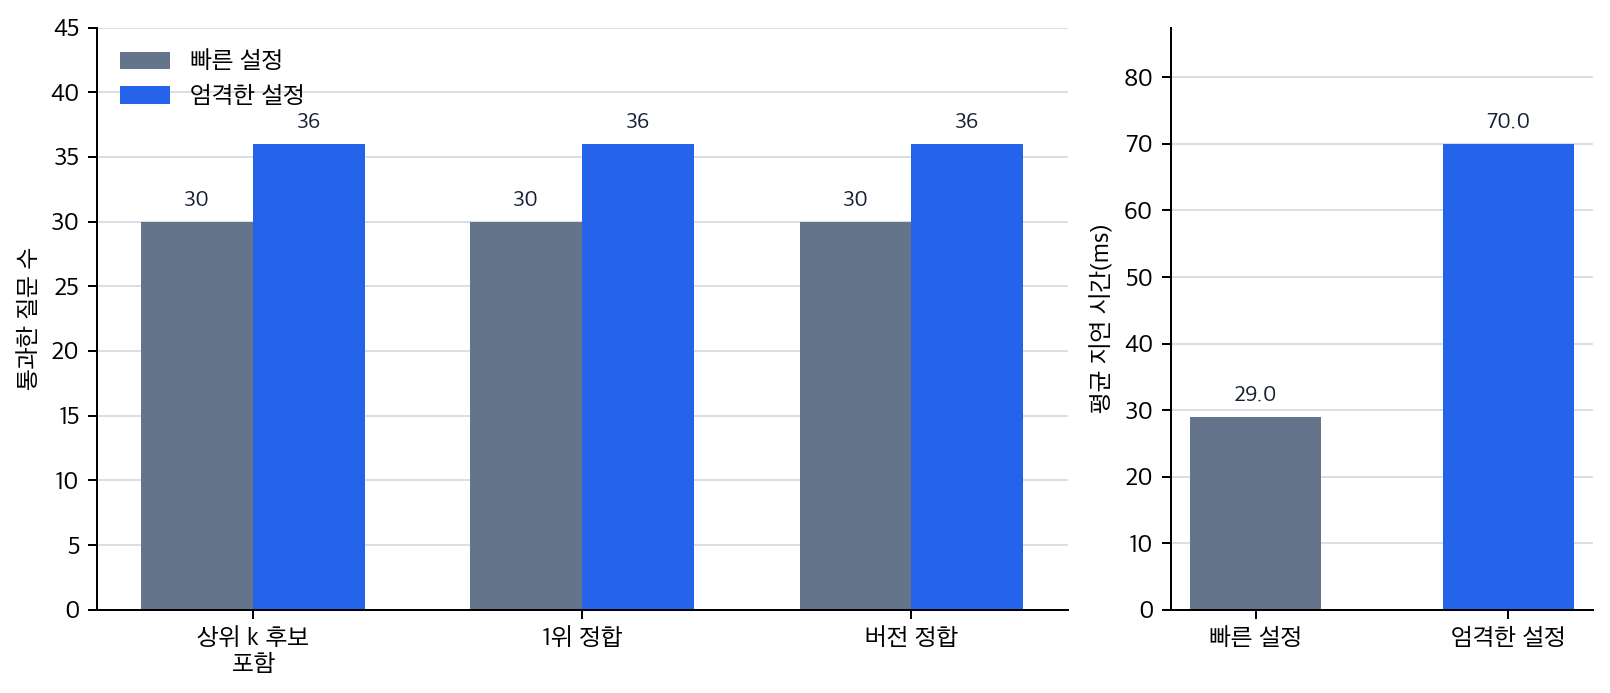
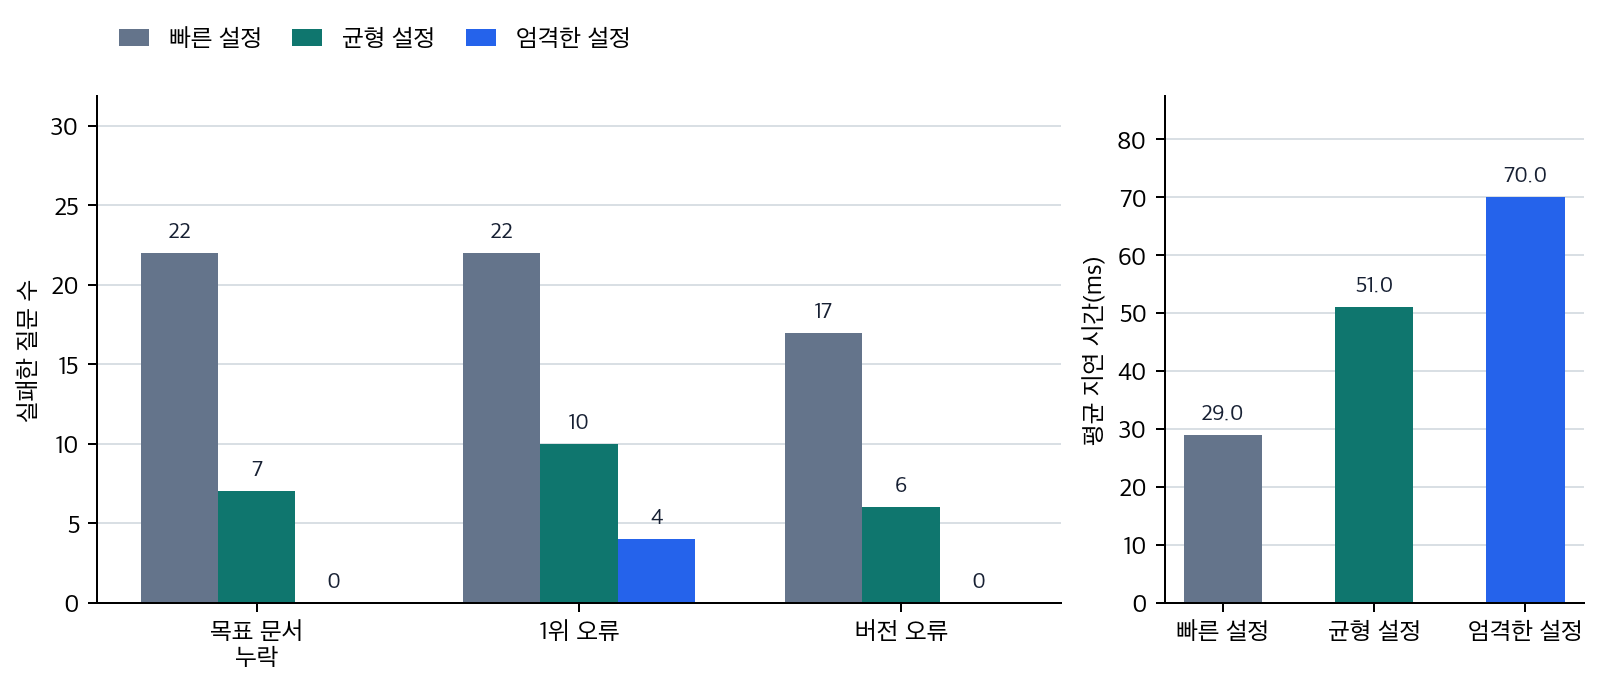
Improve P6-12.2 index quality example

diff --git a/docs/assets/part-06/chapter-12/p6_12_2_index_quality_chart.py b/docs/assets/part-06/chapter-12/p6_12_2_index_quality_chart.py
@@ -19,16 +19,22 @@ SUMMARY = {
     "fast": {
         "hit_count": 30,
         "top1_hit_count": 30,
-        "version_ok_count": 30,
+        "version_ok_count": 35,
         "avg_latency_ms": 29.0,
     },
+    "balanced": {
+        "hit_count": 45,
+        "top1_hit_count": 42,
+        "version_ok_count": 46,
+        "avg_latency_ms": 51.0,
+    },
     "strict": {
-        "hit_count": 36,
-        "top1_hit_count": 36,
-        "version_ok_count": 36,
+        "hit_count": 52,
+        "top1_hit_count": 48,
+        "version_ok_count": 52,
         "avg_latency_ms": 70.0,
     },
-    "query_count": 36,
+    "query_count": 52,
 }
 
 LANG_TEXT = {
@@ -42,21 +48,23 @@ LANG_TEXT = {
             "DejaVu Sans",
         ],
         "outfile": "index-quality-latency-ko.png",
-        "quality_ylabel": "통과한 질문 수",
+        "quality_ylabel": "실패한 질문 수",
         "latency_ylabel": "평균 지연 시간(ms)",
         "fast_label": "빠른 설정",
+        "balanced_label": "균형 설정",
         "strict_label": "엄격한 설정",
-        "quality_labels": ["상위 k 후보\n포함", "1위 정합", "버전 정합"],
+        "quality_labels": ["목표 문서\n누락", "1위 오류", "버전 오류"],
         "latency_label": "평균 지연",
     },
     "en": {
         "font_candidates": ["DejaVu Sans", "Arial Unicode MS"],
         "outfile": "index-quality-latency-en.png",
-        "quality_ylabel": "passed queries",
+        "quality_ylabel": "failed queries",
         "latency_ylabel": "average latency (ms)",
         "fast_label": "fast setting",
+        "balanced_label": "balanced setting",
         "strict_label": "strict setting",
-        "quality_labels": ["top-k hit", "top-1 hit", "version ok"],
+        "quality_labels": ["target missed", "top-1 error", "version error"],
         "latency_label": "avg latency",
     },
 }
@@ -99,18 +107,24 @@ def annotate_bars(bars, fmt: str = "{:g}") -> None:
 def save_chart(text: dict[str, str]) -> None:
     configure_font(text)
     quality_labels = text["quality_labels"]
+    query_count = SUMMARY["query_count"]
     fast_quality = [
-        SUMMARY["fast"]["hit_count"],
-        SUMMARY["fast"]["top1_hit_count"],
-        SUMMARY["fast"]["version_ok_count"],
+        query_count - SUMMARY["fast"]["hit_count"],
+        query_count - SUMMARY["fast"]["top1_hit_count"],
+        query_count - SUMMARY["fast"]["version_ok_count"],
+    ]
+    balanced_quality = [
+        query_count - SUMMARY["balanced"]["hit_count"],
+        query_count - SUMMARY["balanced"]["top1_hit_count"],
+        query_count - SUMMARY["balanced"]["version_ok_count"],
     ]
     strict_quality = [
-        SUMMARY["strict"]["hit_count"],
-        SUMMARY["strict"]["top1_hit_count"],
-        SUMMARY["strict"]["version_ok_count"],
+        query_count - SUMMARY["strict"]["hit_count"],
+        query_count - SUMMARY["strict"]["top1_hit_count"],
+        query_count - SUMMARY["strict"]["version_ok_count"],
     ]
     positions = list(range(len(quality_labels)))
-    bar_width = 0.34
+    bar_width = 0.24
 
     fig, (quality_ax, latency_ax) = plt.subplots(
         1,
@@ -126,31 +140,51 @@ def save_chart(text: dict[str, str]) -> None:
         style_axis(ax)
 
     fast_bars = quality_ax.bar(
-        [x - bar_width / 2 for x in positions],
+        [x - bar_width for x in positions],
         fast_quality,
         width=bar_width,
         color="#64748b",
         label=text["fast_label"],
     )
+    balanced_bars = quality_ax.bar(
+        positions,
+        balanced_quality,
+        width=bar_width,
+        color="#0f766e",
+        label=text["balanced_label"],
+    )
     strict_bars = quality_ax.bar(
-        [x + bar_width / 2 for x in positions],
+        [x + bar_width for x in positions],
         strict_quality,
         width=bar_width,
         color="#2563eb",
         label=text["strict_label"],
     )
     annotate_bars(fast_bars)
+    annotate_bars(balanced_bars)
     annotate_bars(strict_bars)
     quality_ax.set_xticks(positions)
     quality_ax.set_xticklabels(quality_labels)
     quality_ax.set_ylabel(text["quality_ylabel"])
-    quality_ax.set_ylim(0, SUMMARY["query_count"] * 1.25)
-    quality_ax.legend(frameon=False, loc="upper left")
+    max_error = max(fast_quality + balanced_quality + strict_quality)
+    quality_ax.set_ylim(0, max(max_error * 1.45, 4))
+    quality_ax.legend(
+        frameon=False,
+        loc="upper left",
+        bbox_to_anchor=(0.0, 1.18),
+        ncol=3,
+        handlelength=1.2,
+        columnspacing=1.2,
+    )
 
     latency_bars = latency_ax.bar(
-        [text["fast_label"], text["strict_label"]],
-        [SUMMARY["fast"]["avg_latency_ms"], SUMMARY["strict"]["avg_latency_ms"]],
-        color=["#64748b", "#2563eb"],
+        [text["fast_label"], text["balanced_label"], text["strict_label"]],
+        [
+            SUMMARY["fast"]["avg_latency_ms"],
+            SUMMARY["balanced"]["avg_latency_ms"],
+            SUMMARY["strict"]["avg_latency_ms"],
+        ],
+        color=["#64748b", "#0f766e", "#2563eb"],
         width=0.52,
     )
     annotate_bars(latency_bars, "{:.1f}")
